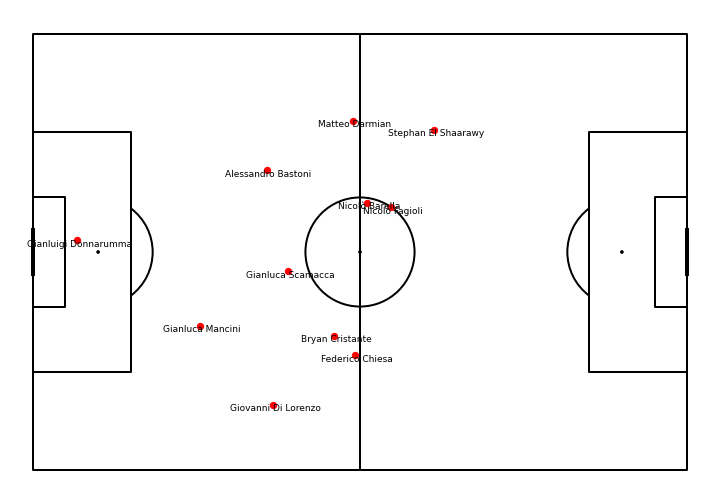
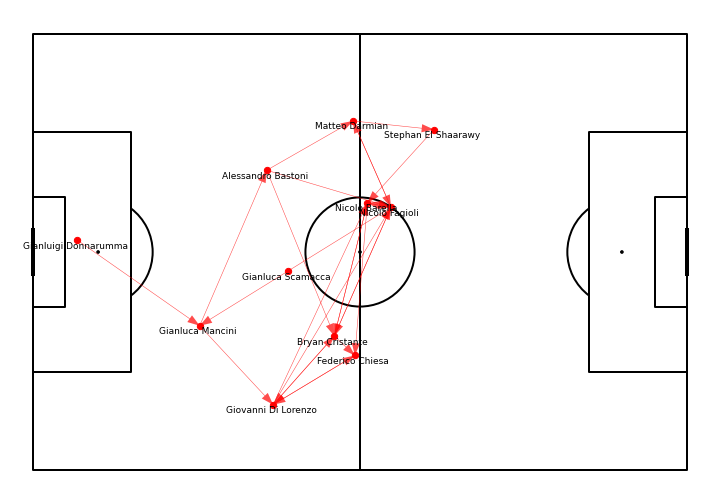
Passpfeile gezeichnet

diff --git a/plot_passing_network.py b/plot_passing_network.py
@@ -51,6 +51,7 @@ def get_passnetwork_before_sub (indata):
         df_pass_network["first_sub_minute"] = earliest_sub
         df_pass_network["dx"] = df_pass_network["x_recipient"] - df_pass_network["x_player"]
         df_pass_network["dy"] = df_pass_network["y_recipient"] - df_pass_network["y_player"]
+        df_pass_network["team_name"] = df_current_team["team_name"].unique()[0]
         team_list.append(df_pass_network) 
     
     outdata = pd.concat([team_list[0], team_list[1]], ignore_index=True)
@@ -61,6 +62,7 @@ df_game_pass_network = get_passnetwork_before_sub(df)
 
 for team_id in df_game_pass_network["team_id"].unique():
     df_network_map_current_team = df_game_pass_network[df_game_pass_network["team_id"]==team_id]
+    current_team_name = df_network_map_current_team["team_name"].unique()[0]
     # draw player on pitch
     pitch = Pitch(line_color = "black")
     fig, ax = pitch.draw(figsize=(10, 7))
@@ -73,8 +75,45 @@ for team_id in df_game_pass_network["team_id"].unique():
         c="red",
         s=40,                          # circleSize²
         alpha=1)
+    
+    # Spielerlabels hinzufügen
+    dx = np.random.uniform(-1, 1)
+    dy = np.random.uniform(0.5, 1.5)
+    for _, row in df_player_pos.iterrows():
+        ax.text(
+            row["x_player"] + dx,
+            row["y_player"] + dy,
+            row["player_name_player"],
+            fontsize=9,
+            color="black",
+            ha="center",
+            va="center"
+        )
     #fig.suptitle(f"{team_} (red) and Opponent (blue) shots", fontsize=24)    
     #fig.set_size_inches(10, 7)
+    
+    # Jetzt die Passpfeile zeichnen
+    var_mindest_pass_zahl = 8
+    df_network_map_current_team_draw =  df_network_map_current_team[df_network_map_current_team["paesse_zeit_normiert"] >= var_mindest_pass_zahl ]
+    for _, row in df_network_map_current_team_draw.iterrows():
+
+        x0 = row["x_player"]
+        y0 = row["y_player"]
+        dx = row["dx"]
+        dy = row["dy"]
+        width = row["paesse_zeit_normiert"] * 0.2   # Faktor anpassen für Dicke
+
+        ax.arrow(
+            x0, y0,
+            dx, dy,
+            head_width=1.5,        # Größe der Pfeilspitze
+            length_includes_head=True,
+            color="red",
+            alpha=0.7,
+            linewidth=0,
+            width=.1             # Linienbreite = Pass-Stärke
+        )
+    plt.savefig("pass_network_" + current_team_name + ".png")
     plt.show()
 
 
